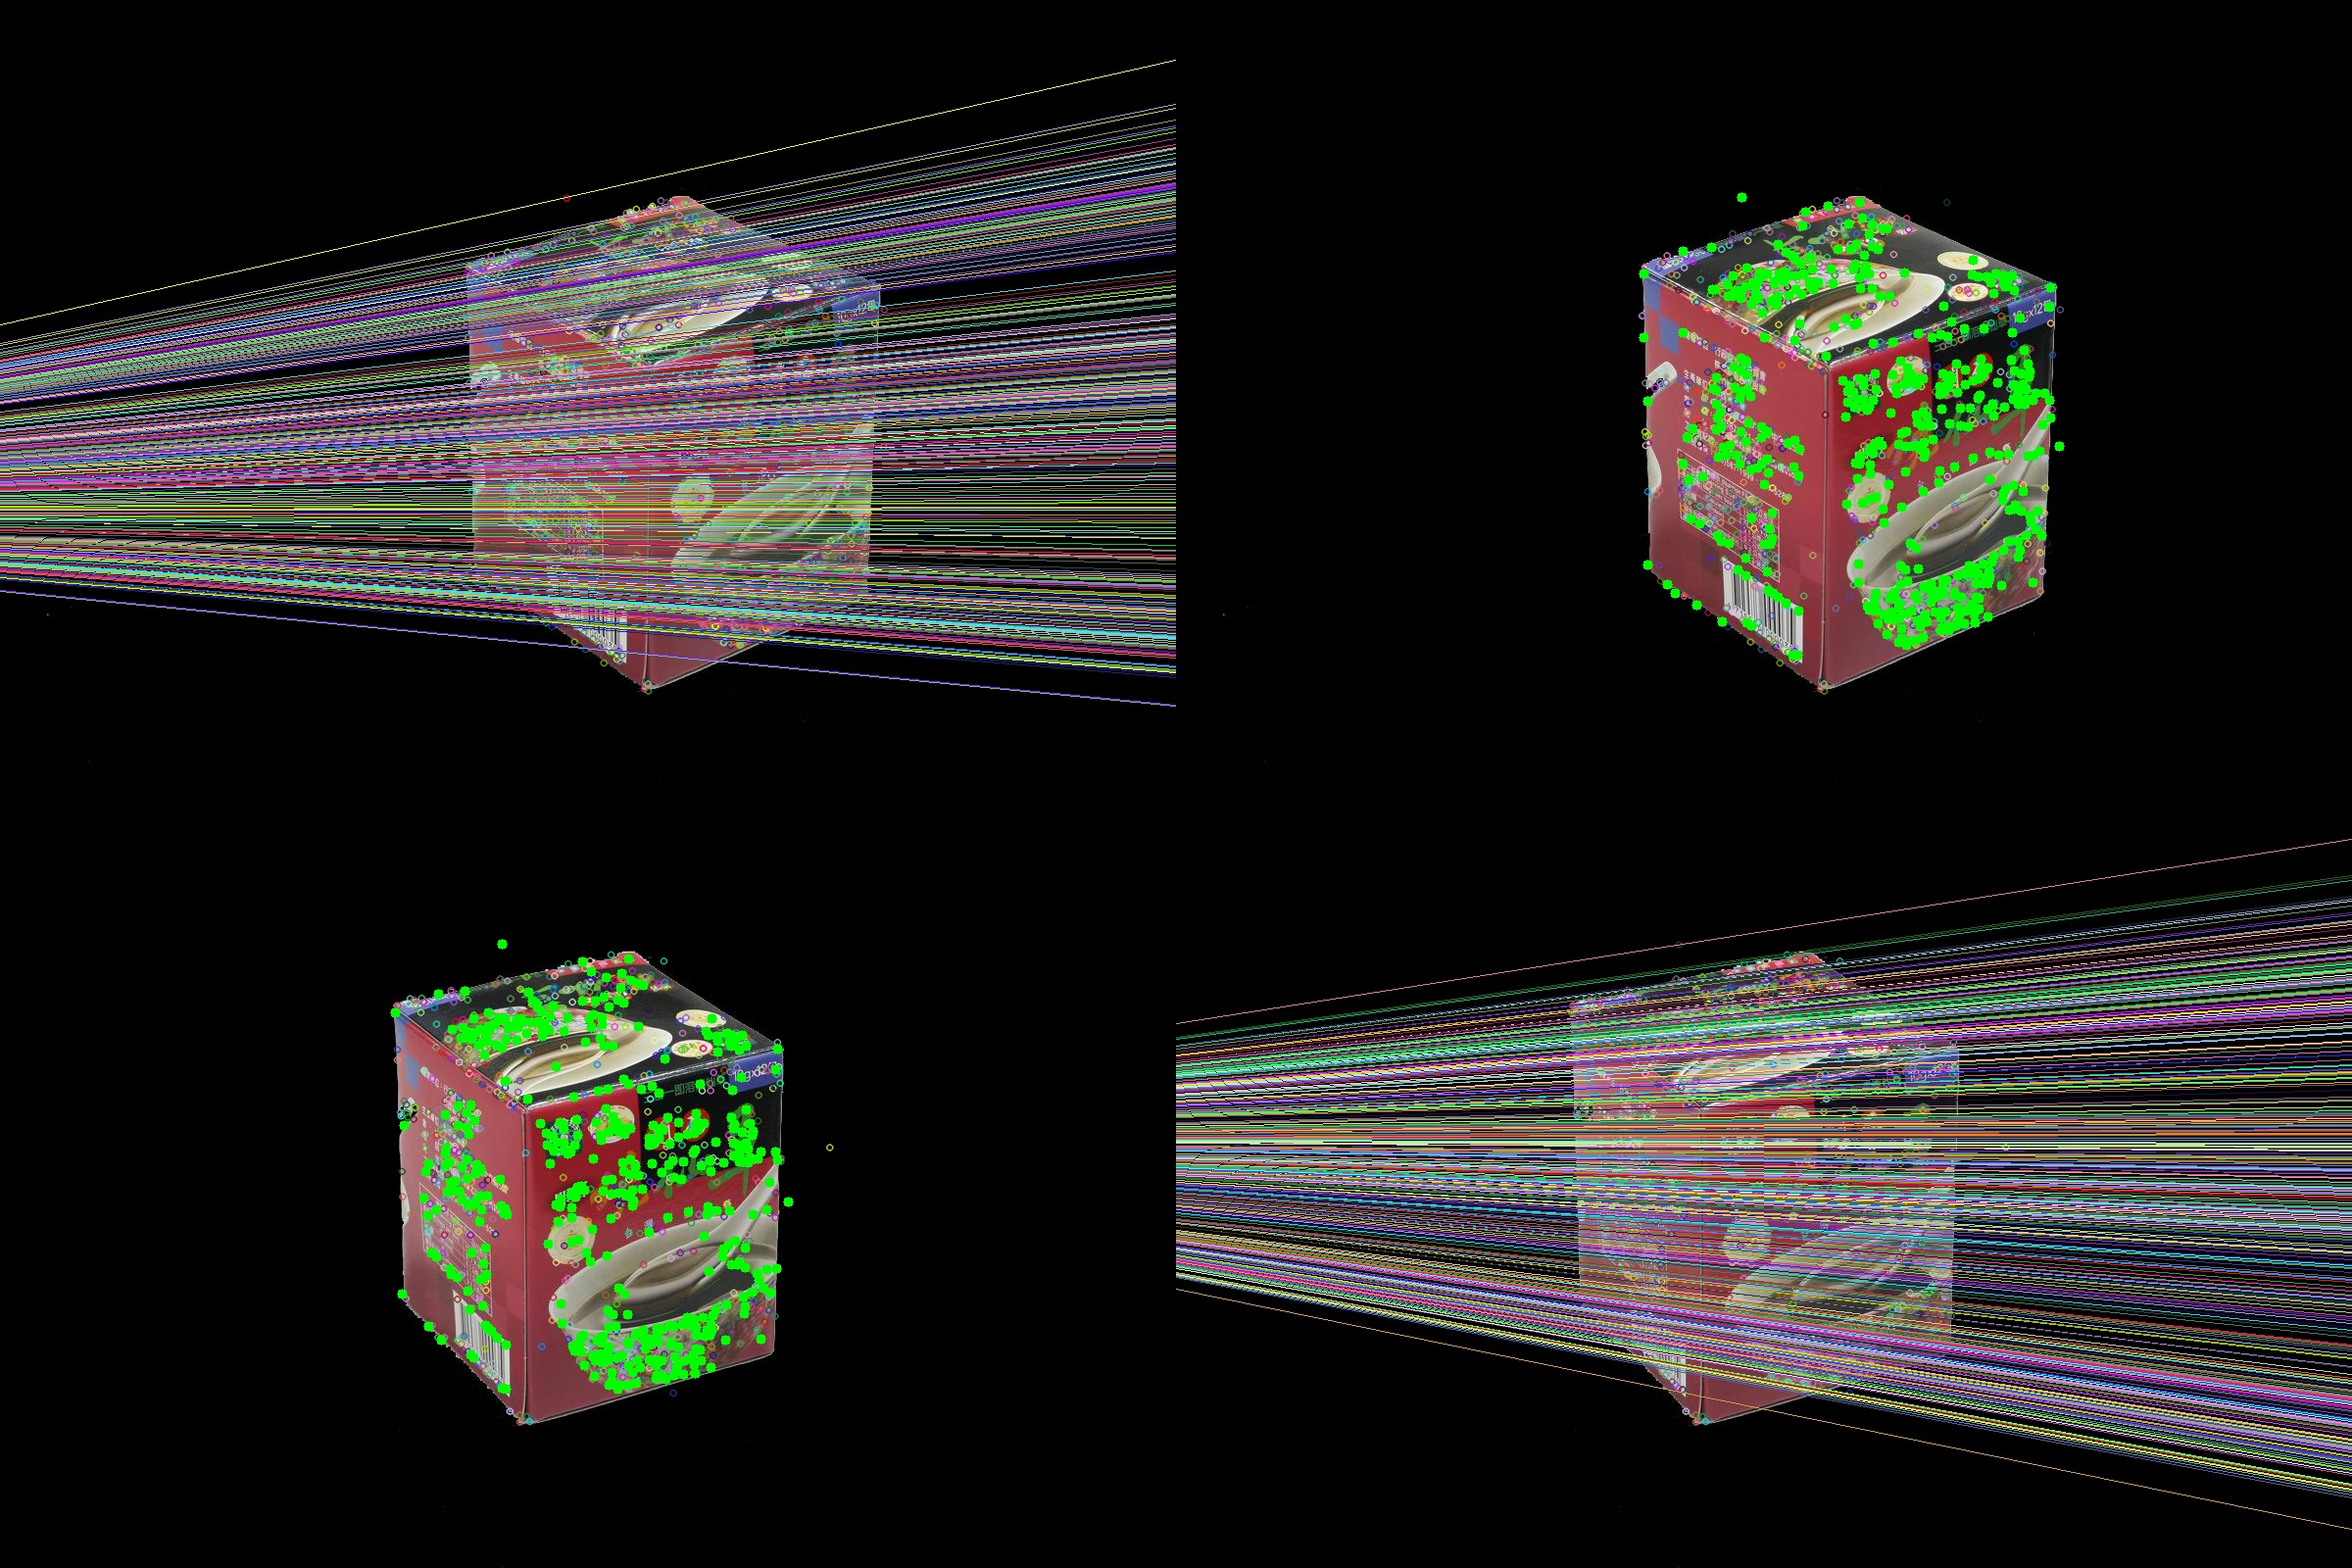
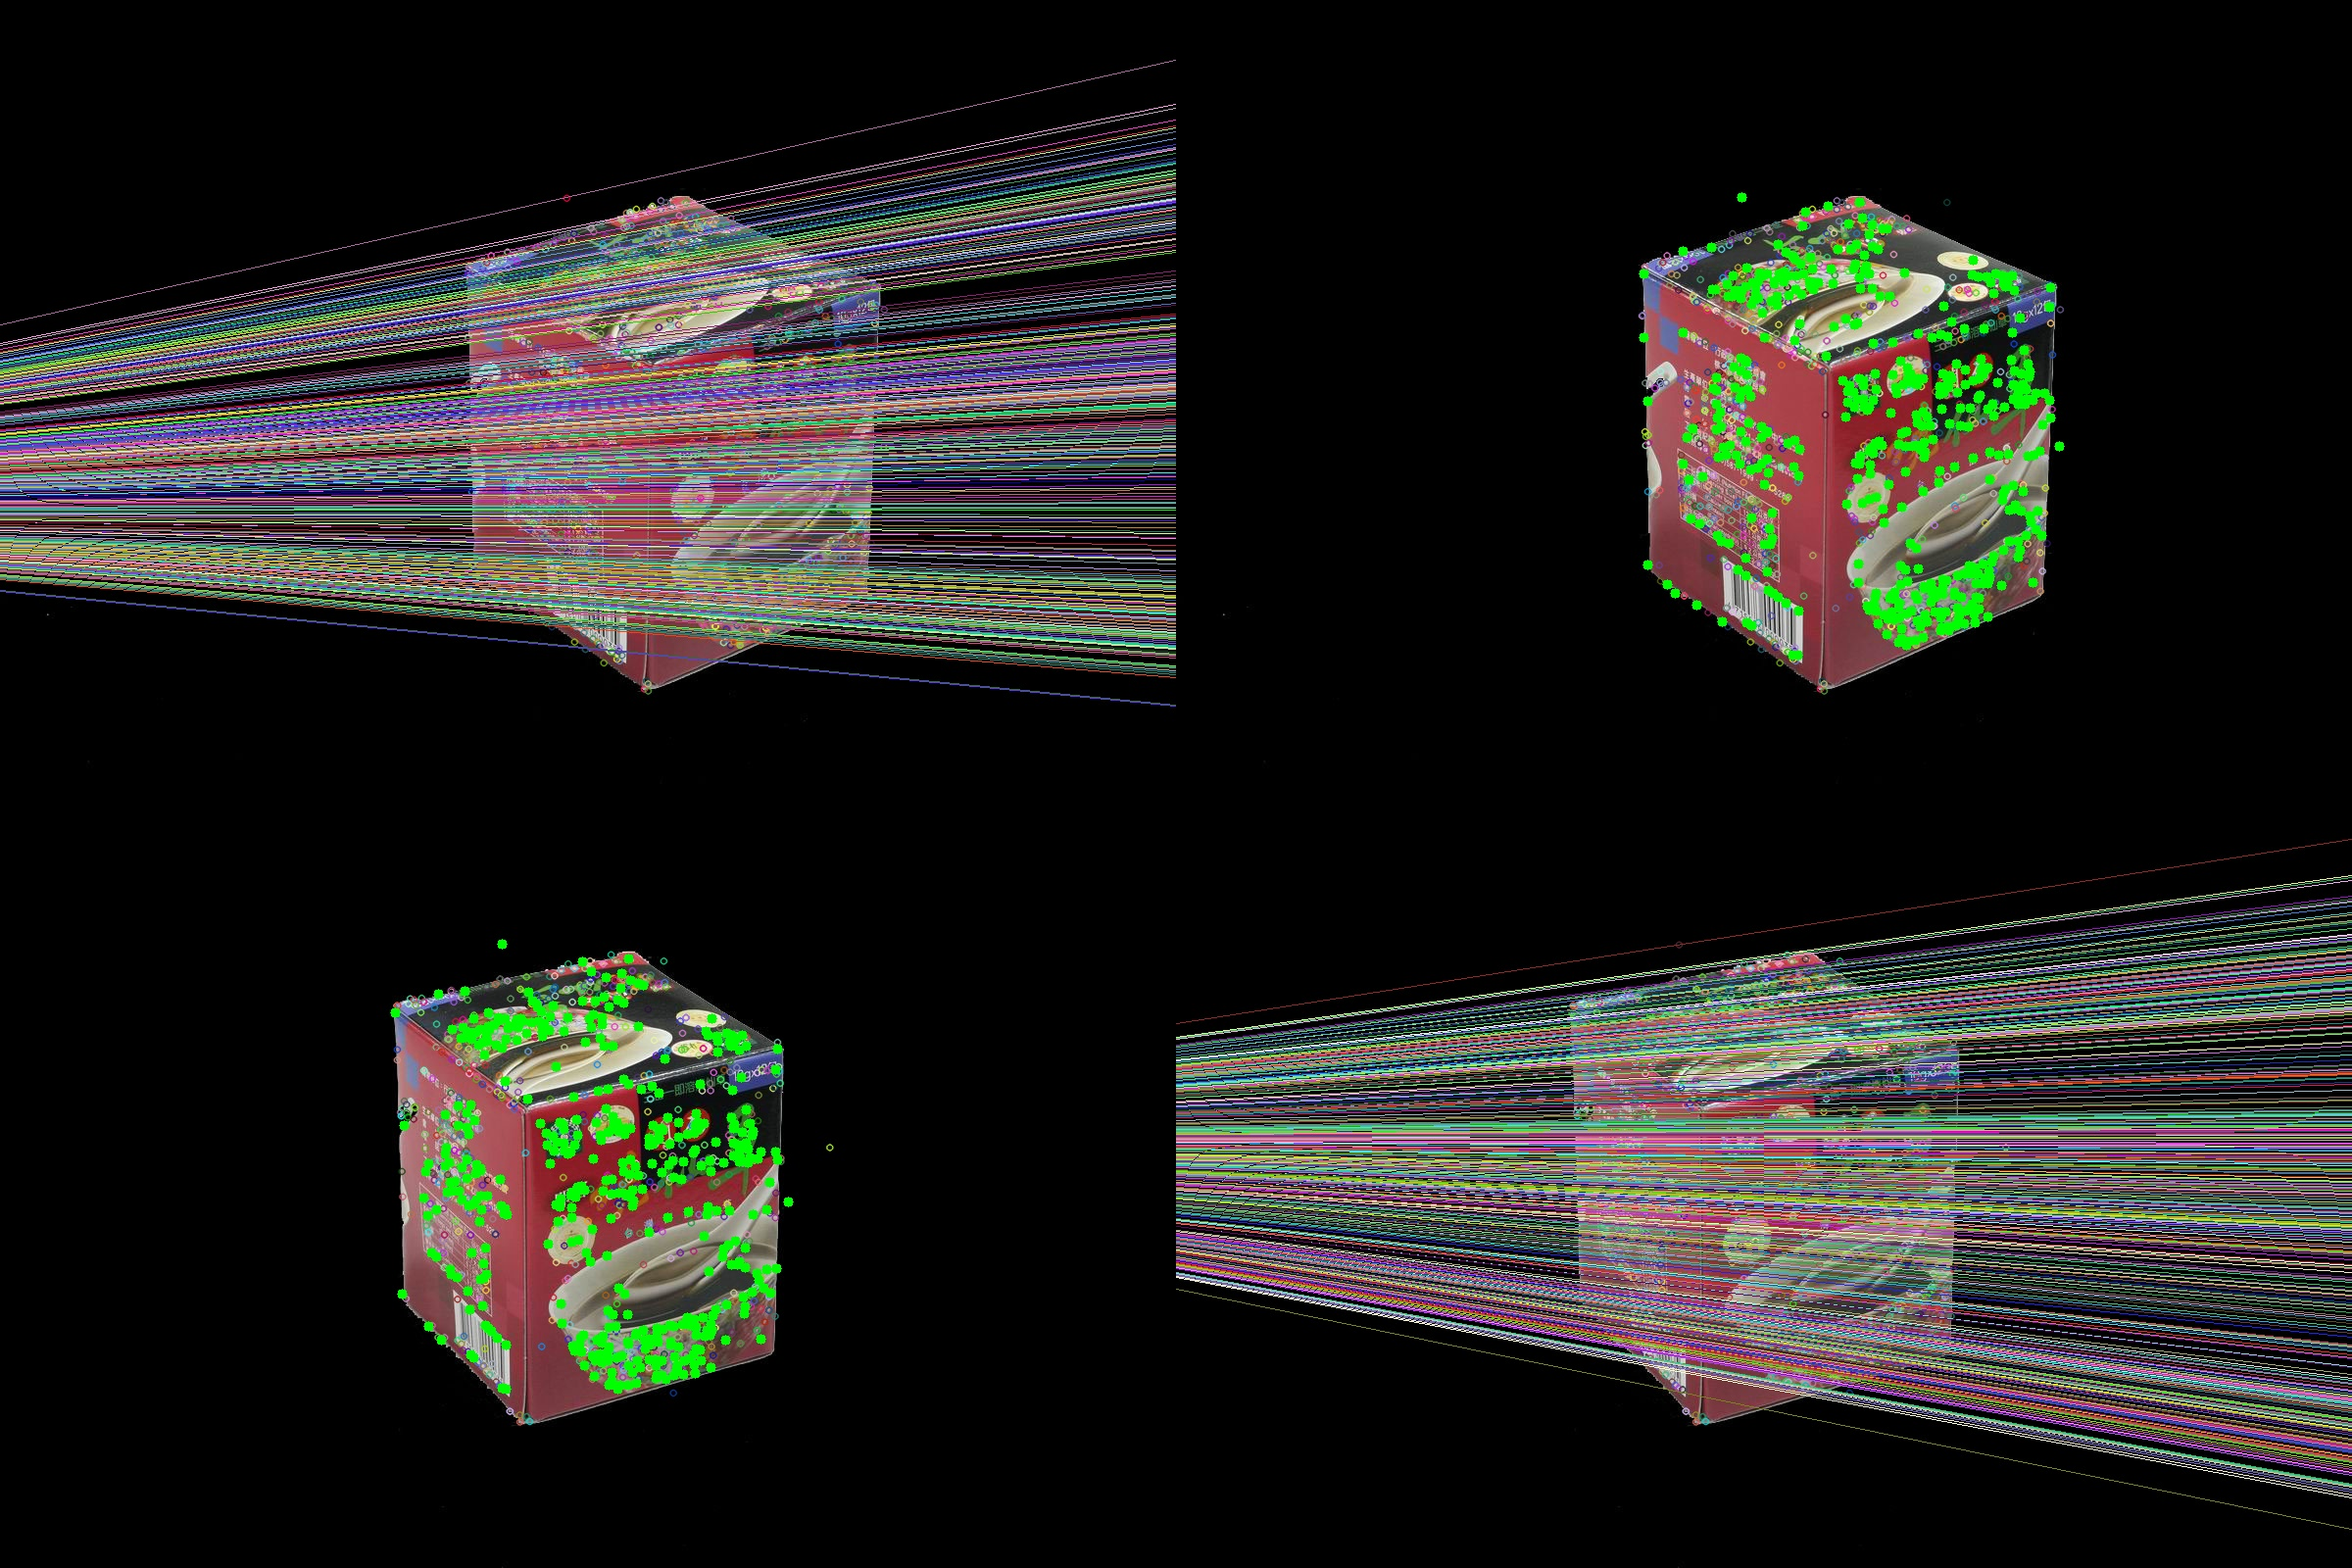
feat: The answer to life, the universe, and everything

Changed region(s): [[0.5, 0.5625, 1.0, 0.9688], [0.0, 0.0625, 0.5, 0.4375]]

diff --git a/hw4/main.py b/hw4/main.py
@@ -7,6 +7,10 @@ from config import IMG_PATH, K, OUTPUT_PATH, Point
 from utils import feature_matching, ransac
 from draw import draw_epipolar_lines, visulize_3d_points
 
+THE_ANSWER_TO_LIFE_THE_UNIVERSE_AND_EVERYTHING = 42
+
+np.random.seed(THE_ANSWER_TO_LIFE_THE_UNIVERSE_AND_EVERYTHING)
+
 
 def decompose_essential_matrix(E):
     """
